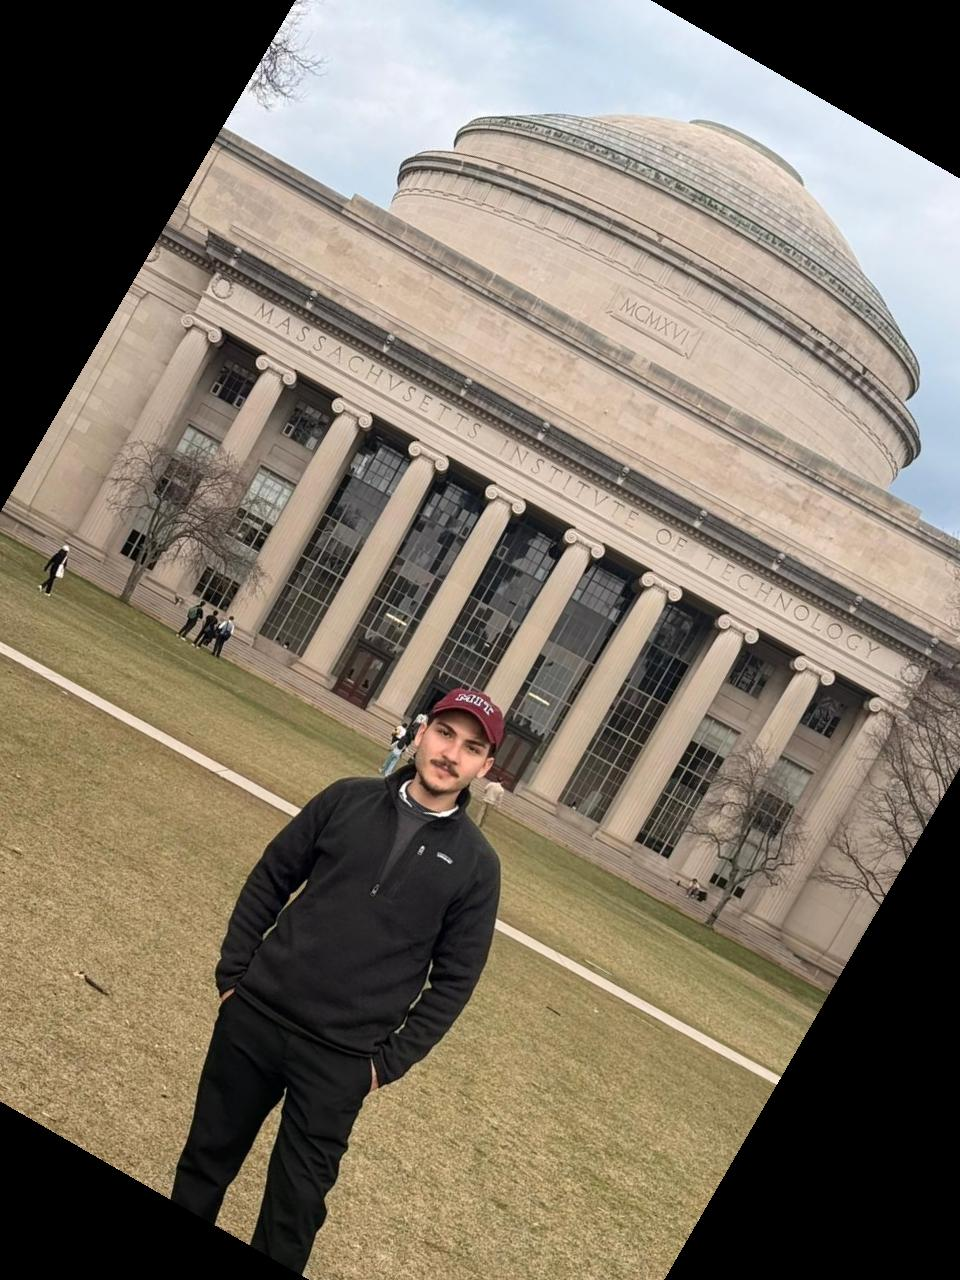
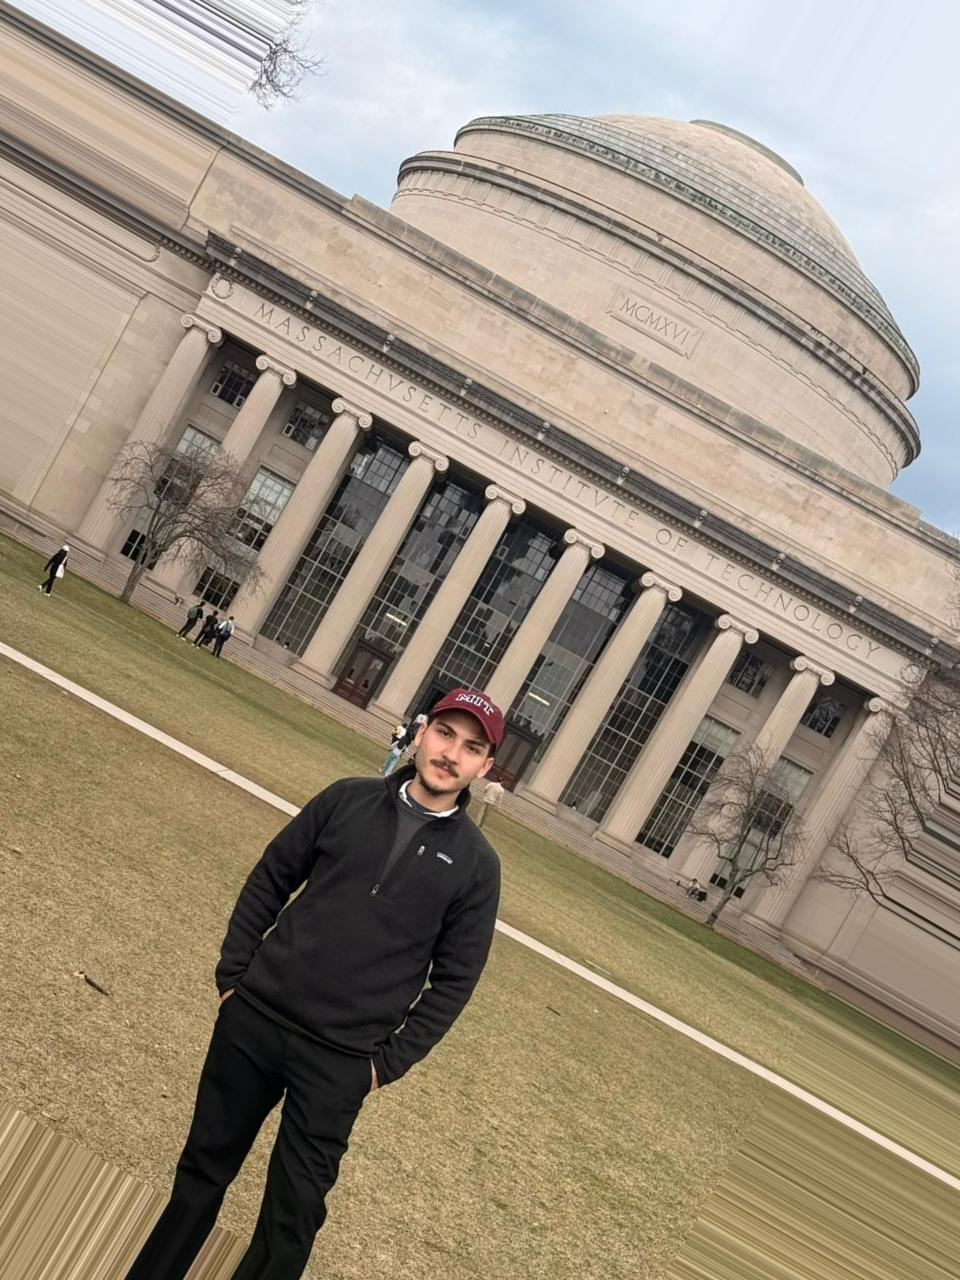
FInishing touches to the report

diff --git a/tb1/relatorio.md b/tb1/relatorio.md
@@ -1,8 +1,8 @@
 # Image CLIpper — Relatório do Trabalho 01
 
-**Disciplina:** SCC0251 — Processamento de Imagens
-**Profa.:** Leo Sampaio Ferraz Ribeiro
-**Aluno:** Cauê Paiva Lira — 14675416
+**Disciplina:** SCC0251 — Processamento de Imagens <br>
+**Profa.:** Leo Sampaio Ferraz Ribeiro  <br>
+**Aluno:** Cauê Paiva Lira — 14675416 <br>
 **Semestre:** 1/2026
 
 ---
@@ -72,11 +72,11 @@ Desloca a imagem em `dx` pixels na horizontal e `dy` pixels na vertical. Utiliza
 
 **Imagem original:**
 
-<!-- ![Original](imagens/original.png) -->
+![Original](imagens/WhatsApp%20Image%202026-04-03%20at%2018.45.16%20(1).jpeg)
 
-**Resultado (dx=50, dy=30):**
+**Resultado (dx=200, dy=150):**
 
-<!-- ![Translação](imagens/translate.png) -->
+![Translação](imagens/resultados/img7_translate.jpeg)
 
 ### 3.2 Rotação
 
@@ -96,33 +96,41 @@ A rotação pode introduzir pixels pretos nas bordas. Para evitar isso, o usuár
 - **autozoom**: calcula um fator de zoom que elimina as bordas pretas, amplia a imagem antes de rotacionar, e recorta ao tamanho original.
 - **nearest**: estende os pixels da borda para preencher as áreas vazias.
 
-**Imagem original:**
+**Imagem original (rotação 30° autozoom):**
 
-<!-- ![Original](imagens/original.png) -->
+![Original](imagens/WhatsApp%20Image%202026-04-03%20at%2018.45.15%20(1).jpeg)
 
 **Rotação 30° (autozoom):**
 
-<!-- ![Rotação autozoom](imagens/rotate_autozoom.png) -->
+![Rotação autozoom](imagens/resultados/img2_rotate_autozoom.jpeg)
+
+**Imagem original (rotação 30° nearest):**
+
+![Original](imagens/WhatsApp%20Image%202026-04-03%20at%2018.45.15.jpeg)
+
+**Rotação 30° (nearest):**
+
+![Rotação nearest](imagens/resultados/img1_rotate_30.jpeg)
+
+**Imagem original (rotação 45° nearest):**
+
+![Original](imagens/WhatsApp%20Image%202026-04-03%20at%2018.45.15%20(2).jpeg)
 
 **Rotação 45° (nearest):**
 
-<!-- ![Rotação nearest](imagens/rotate_nearest.png) -->
+![Rotação nearest 45°](imagens/resultados/img3_rotate_nearest.jpeg)
 
 ### 3.3 Escala
 
 Redimensiona a imagem por um fator multiplicativo usando **interpolação bilinear**. As coordenadas de saída são mapeadas linearmente para a imagem original com `numpy.linspace`, e os valores são interpolados com a função `_bilinear_interp`.
 
-**Imagem original:**
+**Imagem original (escala 0.1x):**
 
-<!-- ![Original](imagens/original.png) -->
+![Original](imagens/WhatsApp%20Image%202026-04-03%20at%2018.45.15%20(4).jpeg)
 
-**Escala 2x:**
+**Escala 0.1x:**
 
-<!-- ![Escala 2x](imagens/scale_2x.png) -->
-
-**Escala 0.5x:**
-
-<!-- ![Escala 0.5x](imagens/scale_half.png) -->
+![Escala 0.1x](imagens/resultados/img5_scale_010.jpeg)
 
 ### 3.4 Crop (Recorte)
 
@@ -130,11 +138,11 @@ Recorta uma região retangular da imagem definida por posição $(x, y)$ e dimen
 
 **Imagem original:**
 
-<!-- ![Original](imagens/original.png) -->
+![Original](imagens/WhatsApp%20Image%202026-04-03%20at%2018.45.16.jpeg)
 
-**Recorte (x=50, y=50, w=200, h=150):**
+**Recorte (x=200, y=600, w=500, h=400):**
 
-<!-- ![Crop](imagens/crop.png) -->
+![Crop](imagens/resultados/img6_crop.jpeg)
 
 ---
 
@@ -146,11 +154,11 @@ Inverte os valores de intensidade: $f(x) = 255 - x$. Pixels claros tornam-se esc
 
 **Imagem original:**
 
-<!-- ![Original](imagens/original.png) -->
+![Original](imagens/WhatsApp%20Image%202026-04-03%20at%2018.45.15.jpeg)
 
 **Resultado:**
 
-<!-- ![Inversa](imagens/inverse.png) -->
+![Inversa](imagens/resultados/img1_inverse.jpeg)
 
 ### 4.2 Log
 
@@ -158,27 +166,31 @@ Transformação logarítmica: $f(x) = c \cdot \ln(1 + x)$, onde $c = \frac{255}{
 
 **Imagem original:**
 
-<!-- ![Original](imagens/original.png) -->
+![Original](imagens/WhatsApp%20Image%202026-04-03%20at%2018.45.15%20(1).jpeg)
 
 **Resultado:**
 
-<!-- ![Log](imagens/log.png) -->
+![Log](imagens/resultados/img2_log.jpeg)
 
 ### 4.3 Gamma
 
 Correção gamma: $f(x) = 255 \cdot \left(\frac{x}{255}\right)^\gamma$. Valores de $\gamma < 1$ clareiam a imagem; valores de $\gamma > 1$ escurecem.
 
-**Imagem original:**
+**Imagem original (gamma 3.5):**
 
-<!-- ![Original](imagens/original.png) -->
+![Original](imagens/WhatsApp%20Image%202026-04-03%20at%2018.45.15%20(2).jpeg)
 
-**Gamma = 0.5 (clareamento):**
+**Gamma = 3.5 (escurecimento intenso):**
 
-<!-- ![Gamma 0.5](imagens/gamma_05.png) -->
+![Gamma 3.5](imagens/resultados/img3_gamma_35.jpeg)
 
-**Gamma = 2.2 (escurecimento):**
+**Imagem original (gamma 2.2):**
 
-<!-- ![Gamma 2.2](imagens/gamma_22.png) -->
+![Original](imagens/WhatsApp%20Image%202026-04-03%20at%2018.45.15%20(3).jpeg)
+
+**Gamma = 2.2 (escurecimento moderado):**
+
+![Gamma 2.2](imagens/resultados/img4_gamma_22.jpeg)
 
 ### 4.4 Modulação de Contraste
 
@@ -188,11 +200,11 @@ Exemplo: `--intervals "0,50,200,255" --targets "0,150,200,255"` expande o contra
 
 **Imagem original:**
 
-<!-- ![Original](imagens/original.png) -->
+![Original](imagens/WhatsApp%20Image%202026-04-03%20at%2018.45.15%20(4).jpeg)
 
 **Resultado:**
 
-<!-- ![Contraste](imagens/contrast.png) -->
+![Contraste](imagens/resultados/img5_contrast.jpeg)
 
 ### 4.5 Solarização (Transformação Criativa)
 
@@ -204,11 +216,11 @@ Isso cria um efeito surreal que mistura tons positivos e negativos na mesma imag
 
 **Imagem original:**
 
-<!-- ![Original](imagens/original.png) -->
+![Original](imagens/WhatsApp%20Image%202026-04-03%20at%2018.45.16.jpeg)
 
 **Solarização (threshold=128):**
 
-<!-- ![Solarização](imagens/solarize.png) -->
+![Solarização](imagens/resultados/img6_solarize.jpeg)
 
 ---
 
@@ -246,31 +258,6 @@ O arquivo `editor.py` está organizado nas seguintes seções:
 
 ---
 
-## 6. Testes
-
-O arquivo `test_editor.py` contém 27 testes de integração que invocam o CLI via `subprocess` e verificam os resultados com `numpy.testing`. Os testes cobrem:
-
-- Propriedades matemáticas (identidade, roundtrip, involução)
-- Dimensões corretas após escala e crop
-- Ausência de pixels pretos indesejados na translação e autozoom
-- Suporte a imagens RGB em todos os comandos
-- Tratamento de argumentos inválidos
-
-```
-$ python -m pytest test_editor.py -v
-========================== 27 passed ==========================
-```
-
----
-
-## 7. Exemplos com Imagens
-
-*Seção a ser preenchida com exemplos visuais de cada transformação aplicada a uma imagem real.*
-
-<!-- Adicionar imagens de exemplo aqui -->
-
----
-
-## 8. Conclusão
+## 6. Conclusão
 
 O Image CLIpper implementa todas as funcionalidades exigidas pelo trabalho: três transformações geométricas (translação, rotação e escala/crop) e cinco transformações de intensidade (inversa, log, gamma, modulação de contraste e solarização como transformação criativa). As transformações geométricas foram implementadas do zero, incluindo a interpolação bilinear, sem depender de funções prontas de bibliotecas como scipy. O software funciona tanto com imagens em escala de cinza quanto com imagens RGB coloridas.
